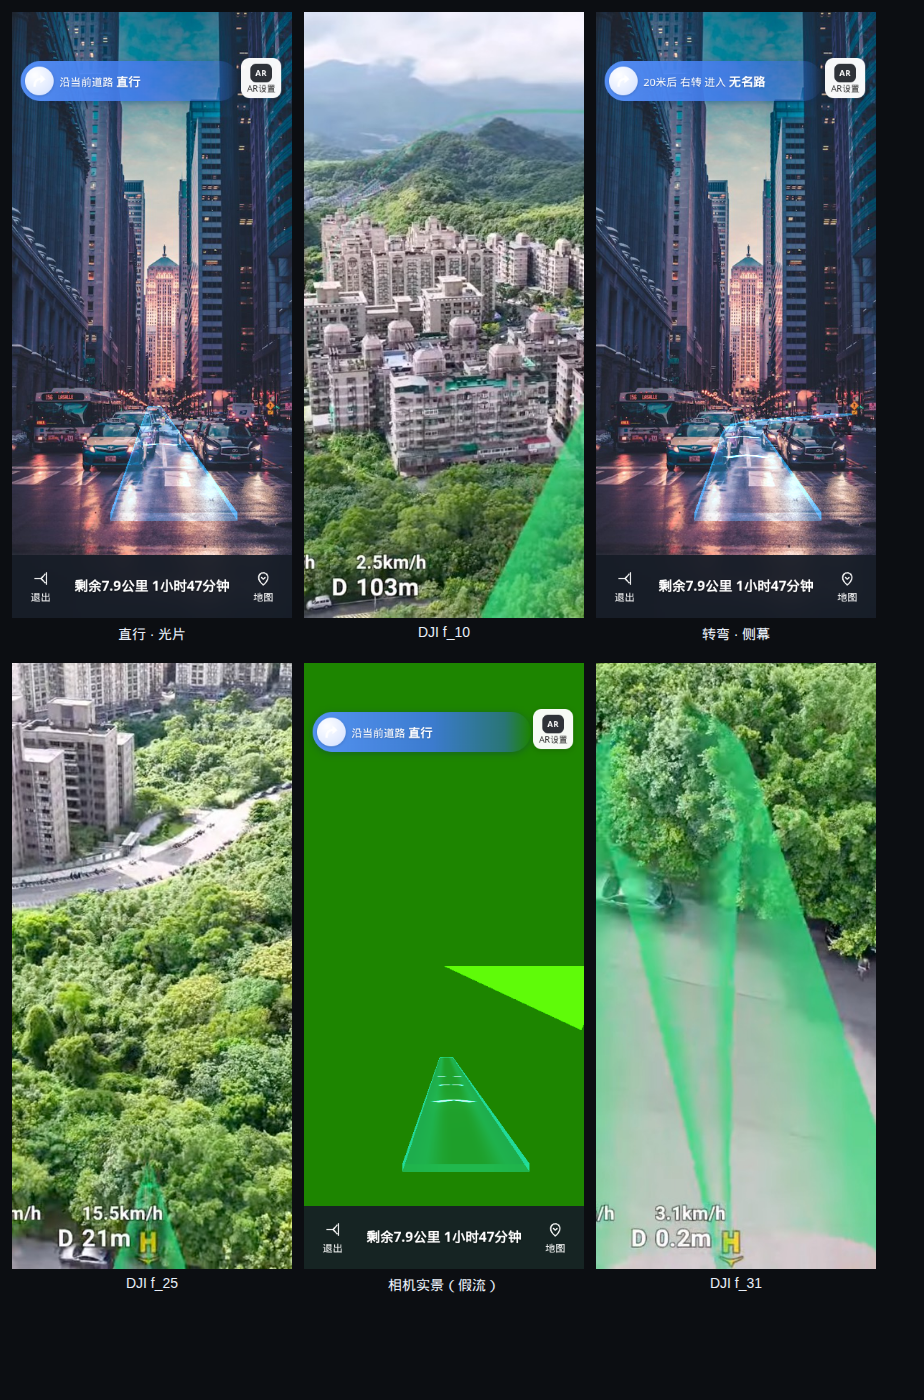
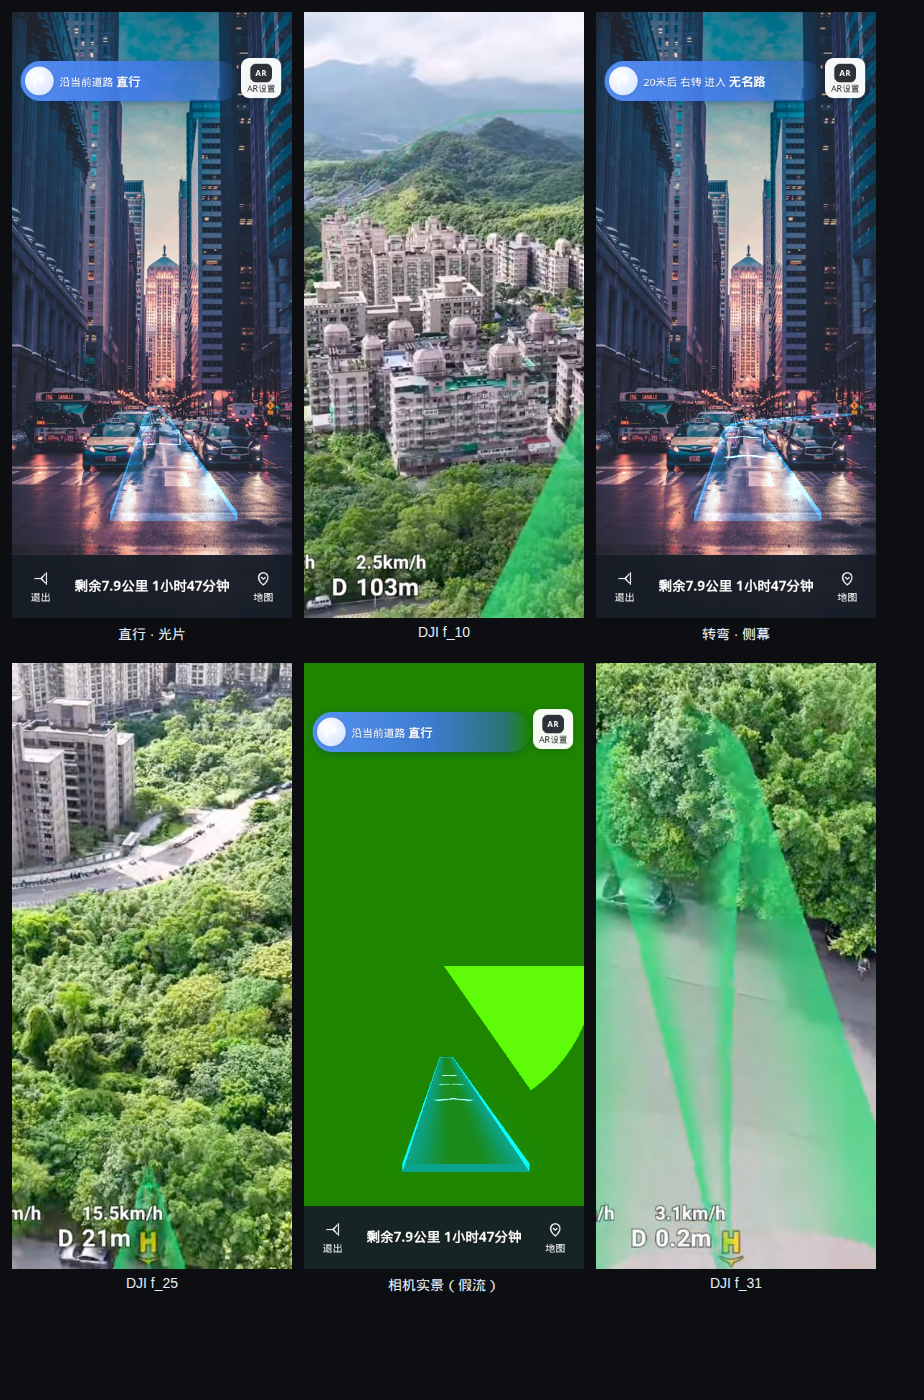
redo7: tint bright floors with a saturated cyan ramp
White floors now use normal alpha blending in #00B4E6 when the background
under the band is bright, and the ramp keeps rising until the edge.

Changed region(s): [[0.4242, 0.6757, 0.6364, 0.86]]

diff --git a/src/shader.ts b/src/shader.ts
@@ -44,6 +44,7 @@ const frag = /* glsl */ `
   uniform float uTime;
   uniform float uFlowSpeed;
   uniform float uFloorGain;
+  uniform float uBright;
   varying vec2 vUv;
   varying vec3 vWorldPos;
   varying vec3 vNormal;
@@ -56,32 +57,41 @@ const frag = /* glsl */ `
     float fade = mix(1.0, 0.82, smoothstep(0.72, 1.0, vUv.x));
     fade *= smoothstep(0.35, 1.8, vDist);
     vec3 N = normalize(vNormal);
-    // 宽而缓的横向渐变：中心约 0.18，外缘约 0.65，过渡铺在两侧大约四成宽度上。
+    // 一直爬到边缘，不在外侧 20% 走平。0.97 处到顶，最外一圈不再另起一根刺。
     float lat = abs(vUv.y * 2.0 - 1.0);
-    float rise = pow(smoothstep(0.15, 1.0, lat), 1.3);
-    float shape = 0.18 + 0.47 * rise;
+    float rise = pow(smoothstep(0.10, 0.97, lat), 1.2);
     float sideK = 1.0 - smoothstep(0.30, 0.84, abs(N.y));
-    // 侧面和近端切面比顶面更实，但不再叠一条刺眼的轨
-    float cover = mix(shape, 0.78, sideK) * fade * uOpacity;
-    vec3 col = mix(uColor, uFarColor, clamp(vUv.x * 0.22, 0.0, 1.0));
-    // 顶缘细线：很窄、很轻，只勾出轮廓
     float fw = max(fwidth(vRim), 1e-4);
     float px = (1.0 - vRim) / fw;
     float farT = smoothstep(4.0, 40.0, vDist);
-    float corePx = mix(0.5, 0.26, farT);
+    float corePx = mix(0.42, 0.22, farT);
     float line = exp(-0.5 * (px / corePx) * (px / corePx));
-    line *= smoothstep(0.84, 0.99, vRim);
-    float lineI = line * 0.035 * fade * uOpacity * (1.0 - sideK);
-    vec3 lineCol = vec3(0.55, 0.88, 0.98);
-    // 中心多加点光、少写 alpha，所以中间是浅青色而不是空白。
-    // 外缘多写一点 alpha，亮车身上不会加成纯白。
-    float lightK = mix(0.92, 0.52, rise);
-    vec3 added = col * cover * lightK + lineCol * lineI;
-    float peak = max(added.r, max(added.g, added.b));
-    if (peak > 0.30) added *= 0.30 / peak;
-    float ink = (0.02 + 0.08 * rise) * fade * (1.0 - 0.5 * sideK);
-    if (cover + lineI < 0.015) discard;
-    gl_FragColor = vec4(added, ink);
+    line *= smoothstep(0.9, 0.995, vRim) * (1.0 - sideK);
+
+    if (uBright > 0.5) {
+      // 白地板：正常透明混合。饱和青 #00B4E6，中心约 0.11，边缘约 0.58。
+      vec3 cyan = vec3(0.0, 0.706, 0.902);
+      float alpha = mix(0.11, 0.58, rise);
+      alpha = mix(alpha, 0.62, sideK);
+      // 细边最多比坡顶高约 10%
+      alpha += line * 0.05;
+      alpha = min(alpha, 0.66) * fade * uOpacity;
+      if (alpha < 0.02) discard;
+      gl_FragColor = vec4(cyan * alpha, alpha);
+    } else {
+      float shape = 0.20 + 0.42 * rise;
+      float cover = mix(shape, 0.68, sideK) * fade * uOpacity;
+      vec3 col = mix(uColor, uFarColor, clamp(vUv.x * 0.22, 0.0, 1.0));
+      float lineI = line * 0.02 * fade * uOpacity;
+      vec3 lineCol = vec3(0.55, 0.88, 0.98);
+      float lightK = 0.50;
+      vec3 added = col * cover * lightK + lineCol * lineI;
+      float peak = max(added.r, max(added.g, added.b));
+      if (peak > 0.32) added *= 0.32 / peak;
+      float ink = (0.015 + 0.05 * rise) * fade * (1.0 - 0.45 * sideK);
+      if (cover + lineI < 0.015) discard;
+      gl_FragColor = vec4(added, ink);
+    }
   }
 `
 
@@ -143,6 +153,7 @@ export interface NaviUniforms {
   uReveal: { value: number }
   uMode: { value: number }
   uFloorGain: { value: number }
+  uBright: { value: number }
 }
 
 function baseMaterial(uniforms: NaviUniforms): THREE.ShaderMaterial {
@@ -186,8 +197,8 @@ export function createFloorTintMaterial(color = '#40D8FF', amount = 0): THREE.Sh
         if (uAmount < 0.001) discard;
         // 衬底也跟着横向变：中心不超过整段的约三分之一，避免把中间染实
         float lat = abs(vUv.y * 2.0 - 1.0);
-        float rise = pow(smoothstep(0.15, 1.0, lat), 1.3);
-        float shape = 0.18 + 0.47 * rise;
+        float rise = pow(smoothstep(0.10, 0.97, lat), 1.2);
+        float shape = mix(0.11, 0.58, rise);
         float amt = uAmount * shape;
         gl_FragColor = vec4(uColor * amt, amt);
       }
@@ -223,6 +234,7 @@ export function createBandMaterial(opts: {
     uReveal: { value: 1 },
     uMode: { value: 0 },
     uFloorGain: { value: 1 },
+    uBright: { value: 0 },
   }
   return baseMaterial(uniforms)
 }

diff --git a/demo/main.ts b/demo/main.ts
@@ -152,7 +152,7 @@ const HOSPITAL = {
   aspect: 1400 / 1867,
   width: 0.85,
   height: 0.48,
-  tint: 0.06,
+  tint: 0,
   slab: 0.055,
   straight: [[0, -2], [0, -12], [0, -24], [0, -36], [0, -48]] as Array<[number, number]>,
   // 先直行到走廊尽头附近，再以半径 1.8m 只向右弯一次，不先往左甩
@@ -308,6 +308,38 @@ gui.add(guiState, 'V形箭头').onChange((v: boolean) => navi.setChevrons(v))
 const fpsHolder = { FPS: 0 }
 gui.add(fpsHolder, 'FPS').disable()
 
+// 光带中心底下的背景亮度。超过 180 走饱和青的正常透明混合。
+const probe = document.createElement('canvas')
+probe.width = 24
+probe.height = 12
+const probeCtx = probe.getContext('2d', { willReadFrequently: true })
+function sampleBandBackground(): number | null {
+  const src: CanvasImageSource | null = (video.style.display !== 'none' && video.readyState >= 2)
+    ? video
+    : (img.complete && img.naturalWidth ? img : null)
+  if (!src || !probeCtx) return null
+  const sw = (src as HTMLVideoElement).videoWidth || img.naturalWidth
+  const sh = (src as HTMLVideoElement).videoHeight || img.naturalHeight
+  if (!sw || !sh) return null
+  const vw = phone.clientWidth || 390
+  const vh = phone.clientHeight || 844
+  const scale = Math.max(vw / sw, vh / sh)
+  const ox = (sw * scale - vw) / 2
+  const oy = (sh * scale - vh) / 2
+  const vx0 = vw * 0.40
+  const vy0 = vh * 0.66
+  const vx1 = vw * 0.60
+  const vy1 = vh * 0.76
+  probeCtx.drawImage(src, (vx0 + ox) / scale, (vy0 + oy) / scale, (vx1 - vx0) / scale, (vy1 - vy0) / scale, 0, 0, probe.width, probe.height)
+  const data = probeCtx.getImageData(0, 0, probe.width, probe.height).data
+  let sum = 0
+  const n = probe.width * probe.height
+  for (let i = 0; i < data.length; i += 4) sum += 0.2126 * data[i] + 0.7152 * data[i + 1] + 0.0722 * data[i + 2]
+  const luma = sum / n
+  ;(window as any).__bandLuma = luma
+  return luma
+}
+
 // ---------- 渲染循环（window.__pauseRender 控制截图） ----------
 const phone = document.getElementById('phone')!
 ;(window as any).__pauseRender = false
@@ -322,6 +354,8 @@ function frame() {
       camera.updateProjectionMatrix()
     }
     navi.setCameraPose(camera.position, camera.quaternion)
+    const luma = sampleBandBackground()
+    if (luma != null) navi.setBackgroundLuma(luma)
     navi.render()
     fpsFrames++
     const now = performance.now()

diff --git a/src/core.ts b/src/core.ts
@@ -207,6 +207,7 @@ export class NaviArrowCore {
   private tintAmount = 0
   private floorGain = 1
   private slab = 0.075
+  private brightFloor = false
   private railMesh: THREE.Mesh[] = []
   private railMat?: THREE.ShaderMaterial
   private lastBuilt = { bandWidth: 1.2, railHeight: 0.5 }
@@ -413,6 +414,7 @@ export class NaviArrowCore {
       })
     }
     this.bandMat.uniforms.uFloorGain.value = this.floorGain
+    if (this.bandMat.uniforms.uBright) this.bandMat.uniforms.uBright.value = this.brightFloor ? 1 : 0
     const wallH = Math.min(0.58, Math.max(0.42, this.params.railHeight || 0.5))
     const channelGeo = buildChannelGeometry(this.routeGeo, halfW, wallH, this.slab)
     if (!this.tintMat) this.tintMat = createFloorTintMaterial(this.theme.primary, this.tintAmount)
@@ -444,6 +446,17 @@ export class NaviArrowCore {
   setFloorFill(gain: number) {
     this.floorGain = Math.max(0, gain)
     if (this.bandMat) this.bandMat.uniforms.uFloorGain.value = this.floorGain
+  }
+
+  /**
+   * 光带底下的背景有多亮。均值超过 180 时改用饱和青的正常透明混合，
+   * 白地板和相机实景都能看出从边缘到中心的渐变。
+   */
+  setBackgroundLuma(luma: number) {
+    const bright = luma > 165
+    if (bright === this.brightFloor) return
+    this.brightFloor = bright
+    if (this.bandMat?.uniforms?.uBright) this.bandMat.uniforms.uBright.value = bright ? 1 : 0
   }
 
   /** 亮地板上的极淡青色衬底。0 表示关闭。 */
